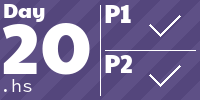
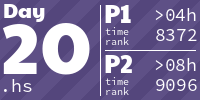
2024, day 20, optimised somewhat

diff --git a/README.md b/README.md
@@ -10,10 +10,10 @@ according to r/adventofcode when my own solution was much less efficient.
 
 <!-- AOC TILES BEGIN -->
 <h1 align="center">
-  Advent of Code - 488/488 ⭐
+  Advent of Code - 490/490 ⭐
 </h1>
 <h1 align="center">
-  2024 - 38 ⭐ - Haskell
+  2024 - 40 ⭐ - Haskell
 </h1>
 <a href="2024/days/Day1.hs">
   <img src=".aoc_tiles/tiles/2024/01.png" width="161px">
@@ -71,6 +71,9 @@ according to r/adventofcode when my own solution was much less efficient.
 </a>
 <a href="2024/days/Day19.hs">
   <img src=".aoc_tiles/tiles/2024/19.png" width="161px">
+</a>
+<a href="2024/days/Day20.hs">
+  <img src=".aoc_tiles/tiles/2024/20.png" width="161px">
 </a>
 <h1 align="center">
   2023 - 50 ⭐ - Haskell
